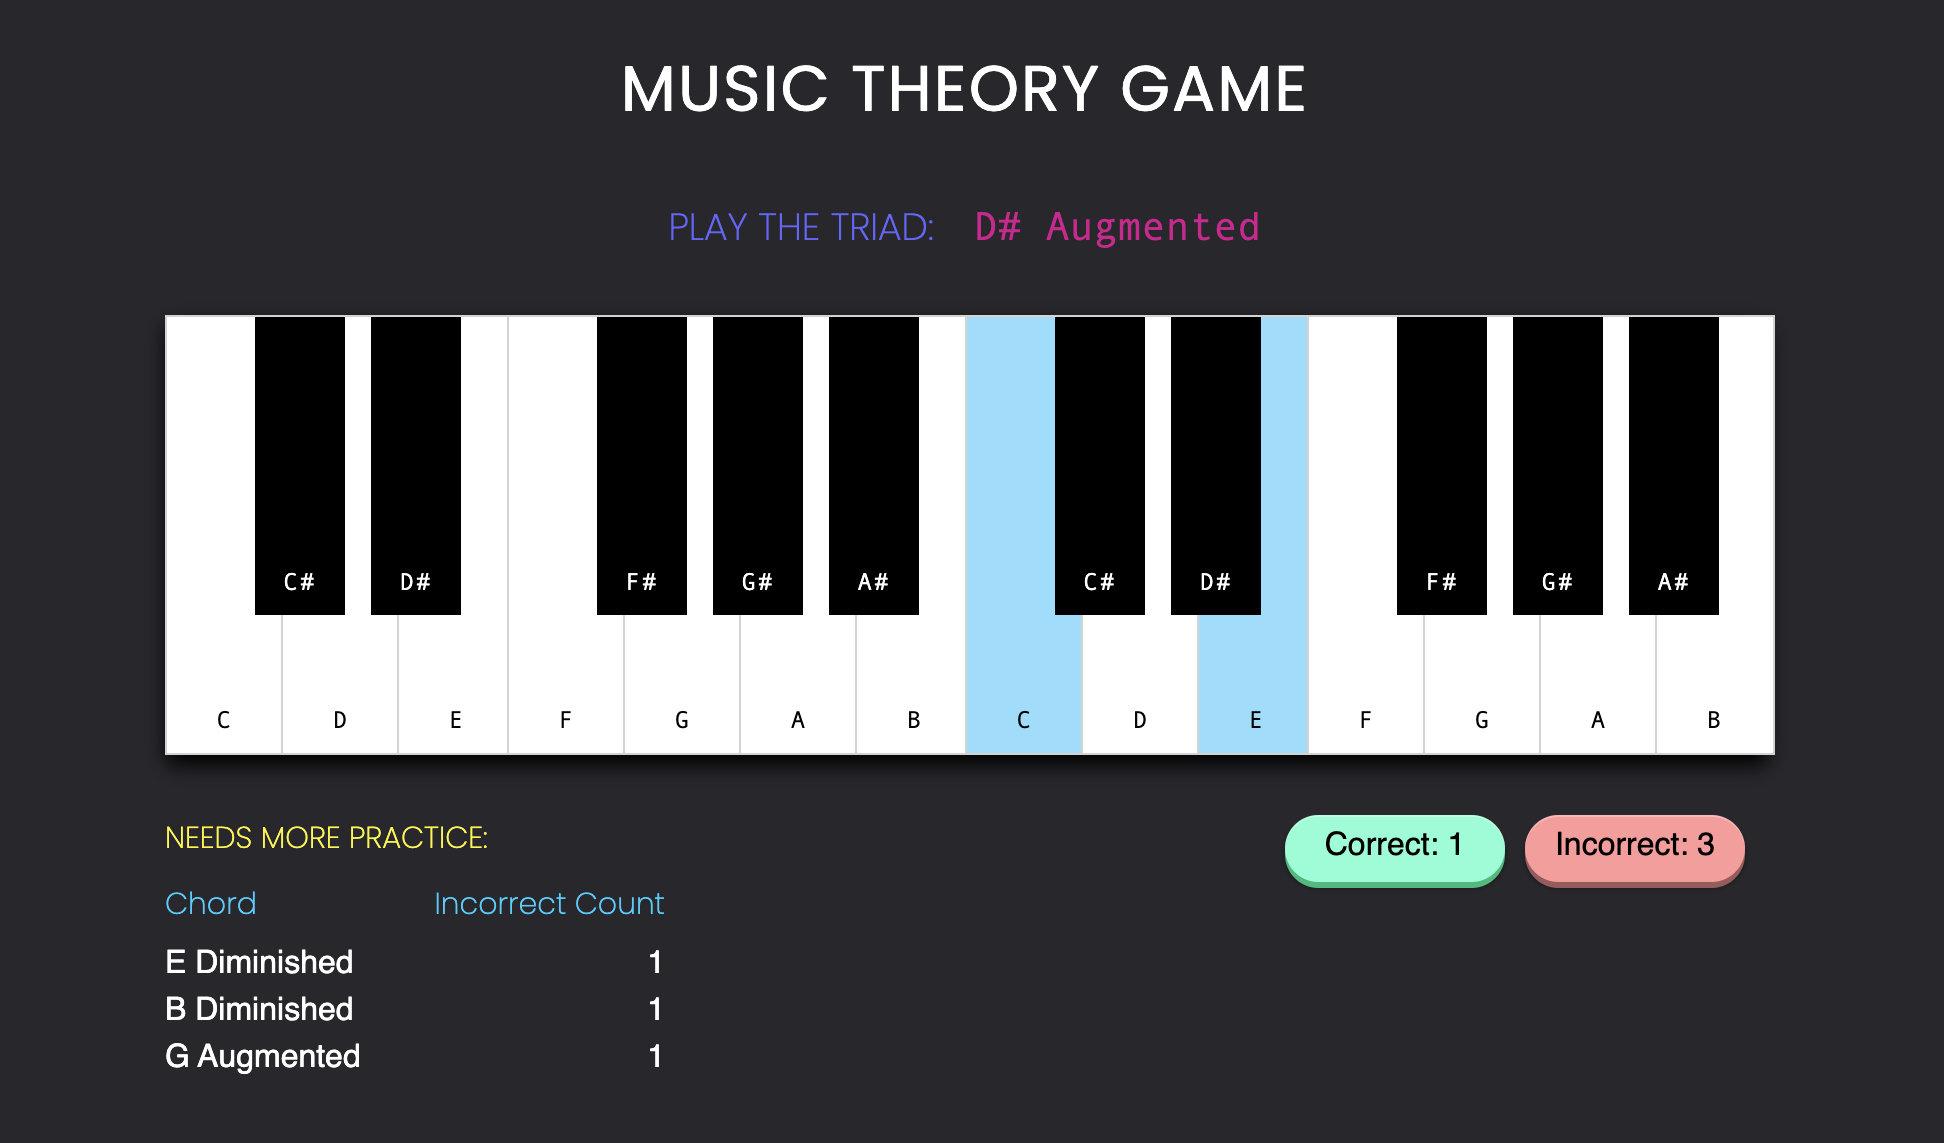
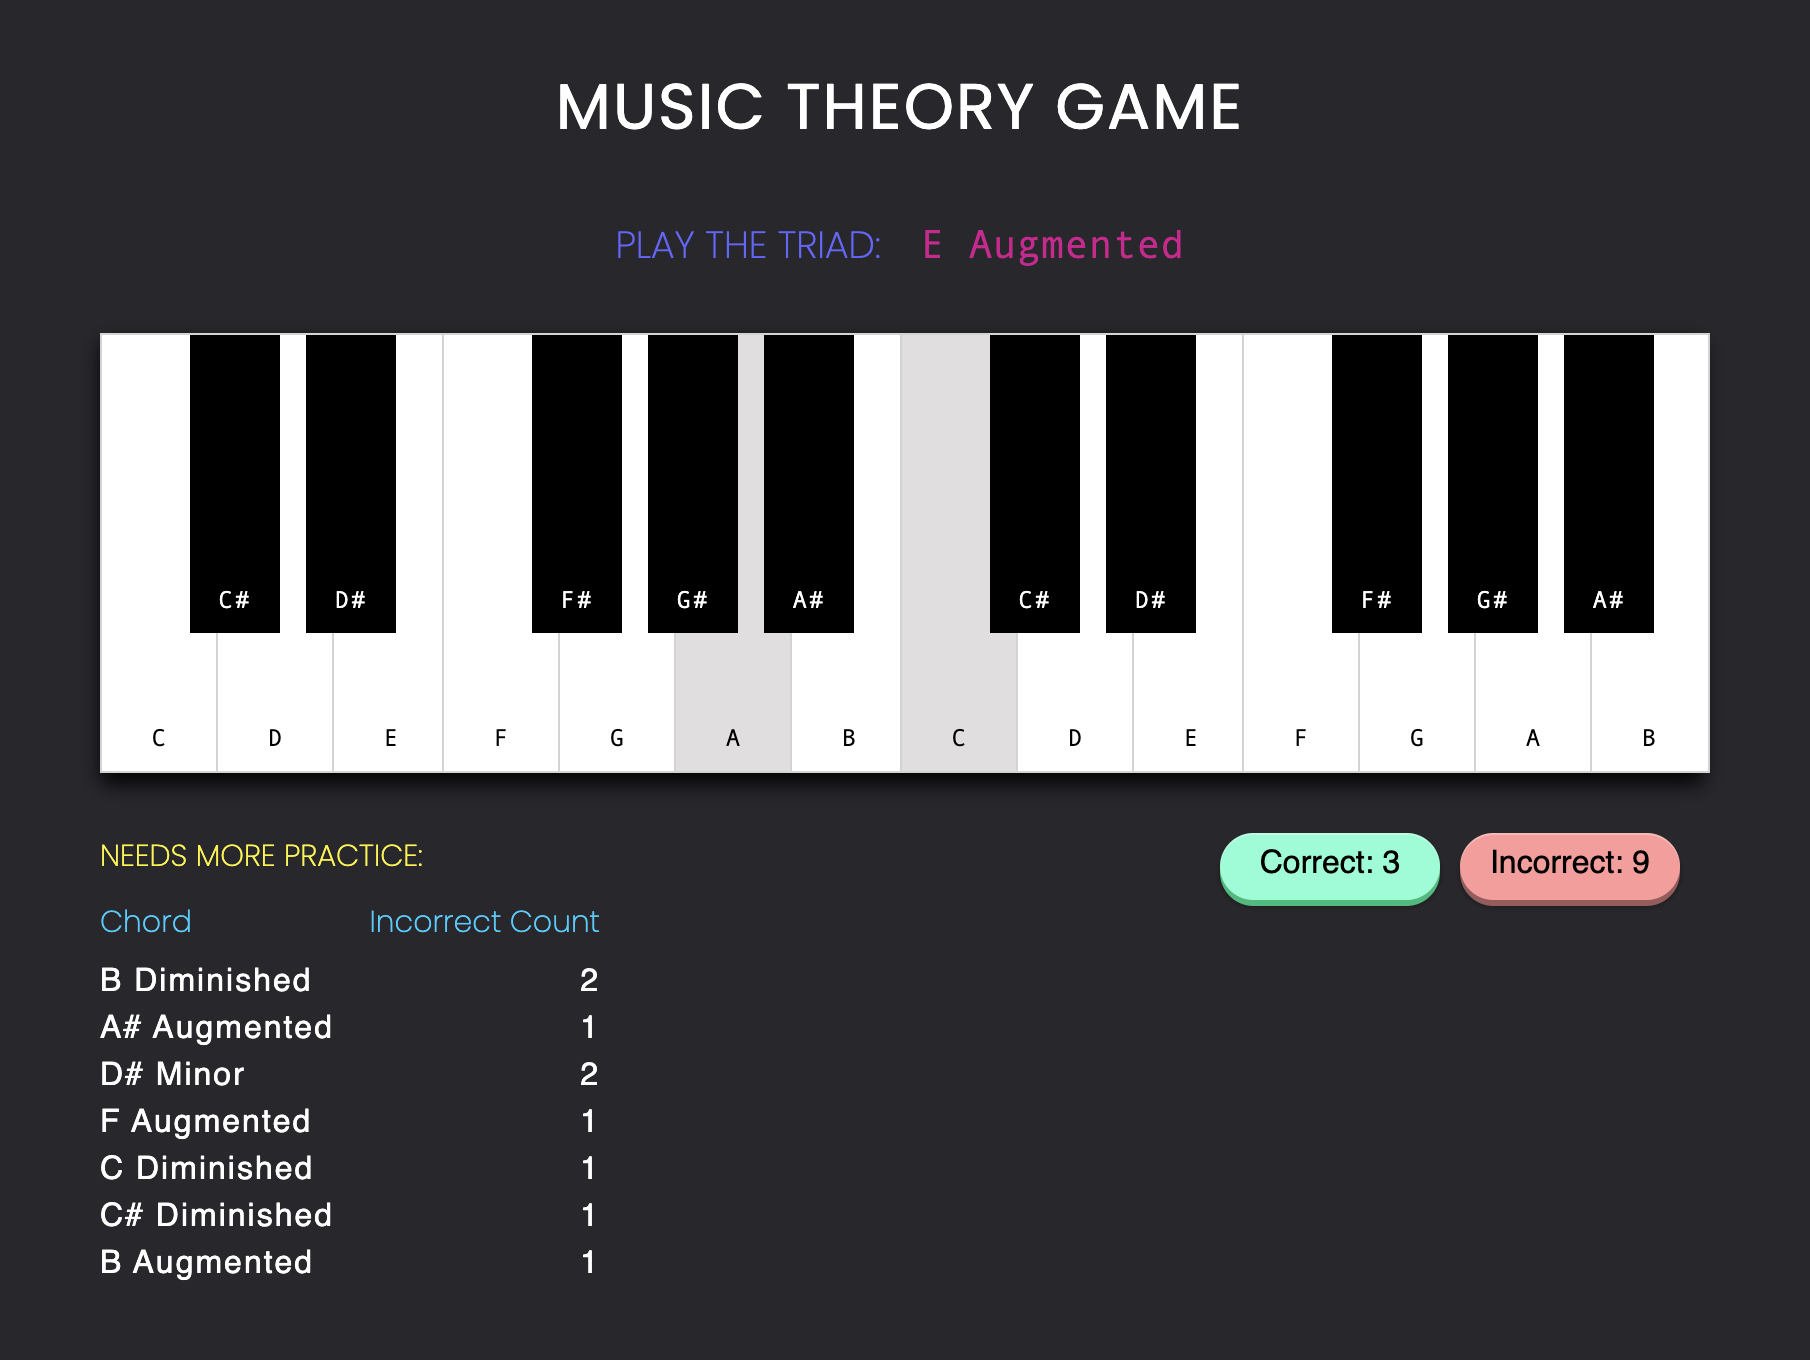
update image

diff --git a/src/Components/Music.css b/src/Components/Music.css
@@ -73,6 +73,8 @@
 
 .quiz-results p {
     color: white;
+    letter-spacing: 1px;
+    font-family: "Source Code Pro", sans-serif;
 }
 
 .results-row {
@@ -120,7 +122,7 @@
 }
 
 .pressed-key {
-    background-color: #8fdfff;
+    background-color: #e0dede;
 }
 
 .black-key + .white-key {
@@ -134,5 +136,5 @@
 }
 
 .white-key:hover, .black-key:hover {
-    background-color: #8fdfff;
+    background-color: #e0dede;
 }
